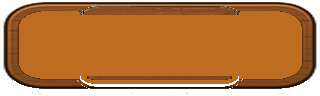
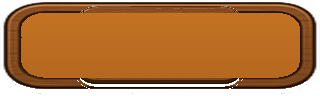
Restore button chrome and fix card height regression
Revert destructive face/wood PNG edits; restore the deposited
single-face chrome and only strip the silver bottom plate. Put wood
CSS insets back to the real face edges (6.41/13.54/18.75 + 2%). Size
build/upgrade cards by content with a 40% max-height cap instead of
forcing equal 40% flex shares.

diff --git a/game/src/style.css b/game/src/style.css
@@ -541,12 +541,12 @@ select {
   align-content: flex-start;
 }
 
-/* Build card: %-Abstände; Anteil der Rail, nie über 40% Höhe */
+/* Build card: Inhalt bestimmt Höhe, hart bei 40% Rail-Höhe kappen */
 .match-shell.matchday .build-card {
   display: flex;
   flex-direction: column;
   gap: 4%;
-  flex: 0 1 40%;
+  flex: 0 1 auto;
   min-height: 0;
   min-width: 0;
   width: 100%;
@@ -571,7 +571,7 @@ select {
   grid-template-columns: minmax(0, var(--br-icon, 26%)) minmax(0, 1fr);
   gap: 4%;
   align-items: center;
-  flex: 1 1 auto;
+  flex: 0 1 auto;
   min-height: 0;
   min-width: 0;
   width: 100%;
@@ -693,14 +693,14 @@ select {
  * Overlay: Holz-Innenkante + 2% (Breite L/R, Höhe T/B).
  */
 .match-shell.matchday .ar-cost-btn {
-  /* Face bündig zur Holz-Innenkante; Live-Text +2% Abstand */
-  --wood-x: 5.94%;
-  --wood-y-top: 15.62%;
-  --wood-y-bot: 12.50%;
+  /* Face-Kante des Chrome-PNG; Live-Text Holz-Innen + 2% */
+  --wood-x: 6.41%;
+  --wood-y-top: 13.54%;
+  --wood-y-bot: 18.75%;
   --inset: 2%;
   position: relative;
   display: block;
-  flex: 0 1 auto;
+  flex: 0 0 auto;
   width: 100%;
   max-width: 100%;
   height: auto;
@@ -808,12 +808,12 @@ select {
   opacity: 0.55;
 }
 
-/* Upgrade panel — max. 40% Rail-Höhe, nie volle Höhe */
+/* Upgrade panel — Inhalt bestimmt Höhe, max. 40% Rail */
 .match-shell.matchday .upgrade-panel {
   display: flex;
   flex-direction: column;
   gap: 4%;
-  flex: 0 1 40%;
+  flex: 0 1 auto;
   min-height: 0;
   min-width: 0;
   max-width: 100%;

diff --git a/docs/mockups/personen-action-card/index.html b/docs/mockups/personen-action-card/index.html
@@ -132,9 +132,9 @@
    */
   .cost-btn {
     /* Face bündig zur Holz-Innenkante; Live-Text +2% */
-    --wood-x: 5.94%;
-    --wood-y-top: 15.62%;
-    --wood-y-bot: 12.50%;
+    --wood-x: 6.41%;
+    --wood-y-top: 13.54%;
+    --wood-y-bot: 18.75%;
     --inset: 2%;
     appearance: none;
     border: 0;
